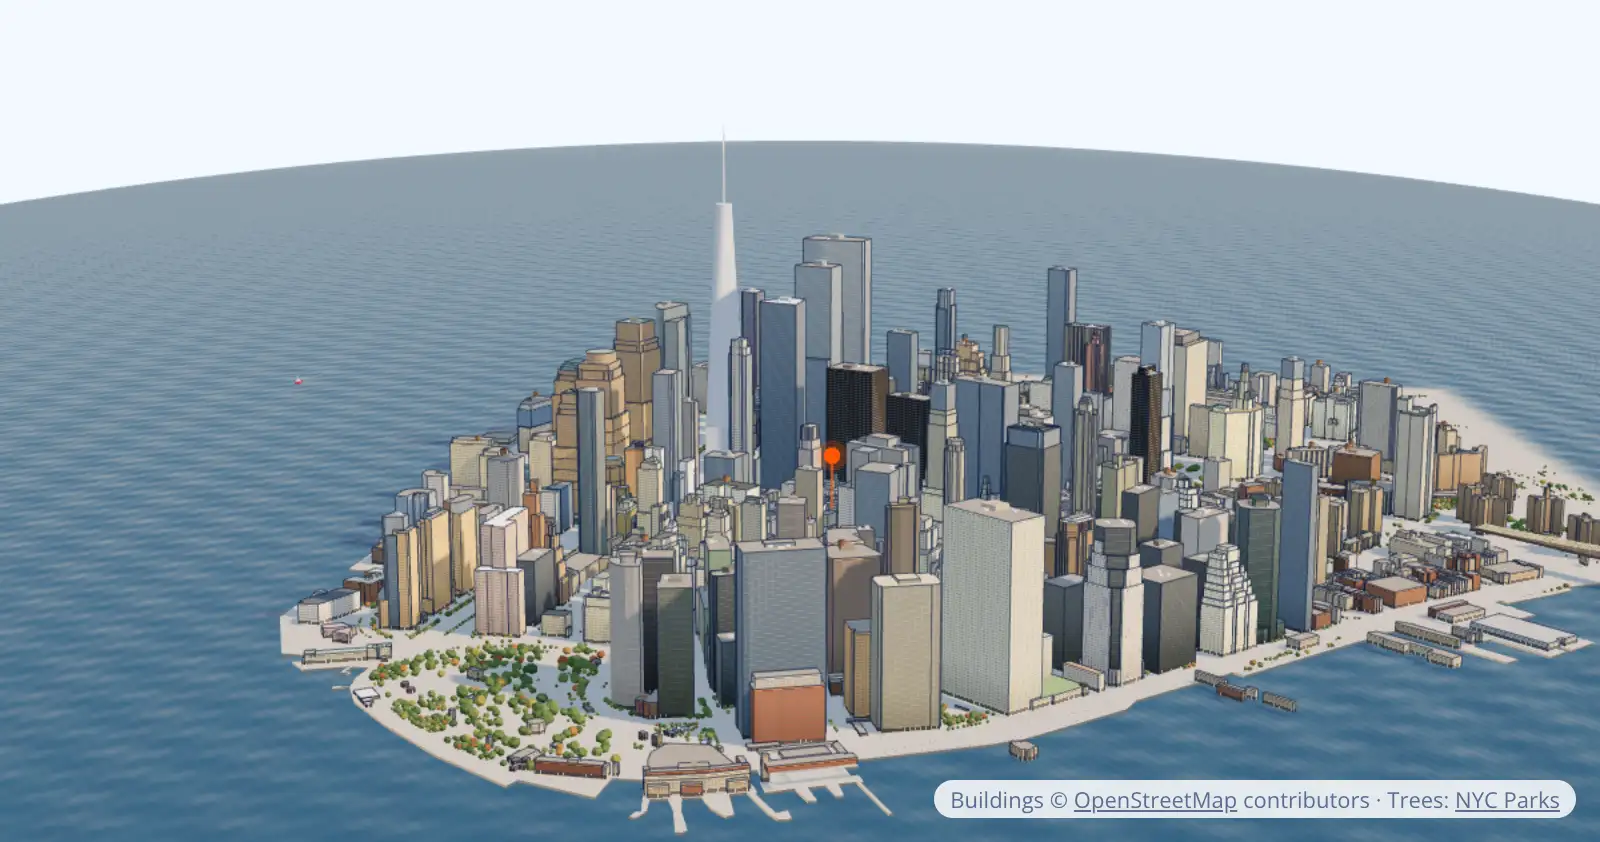
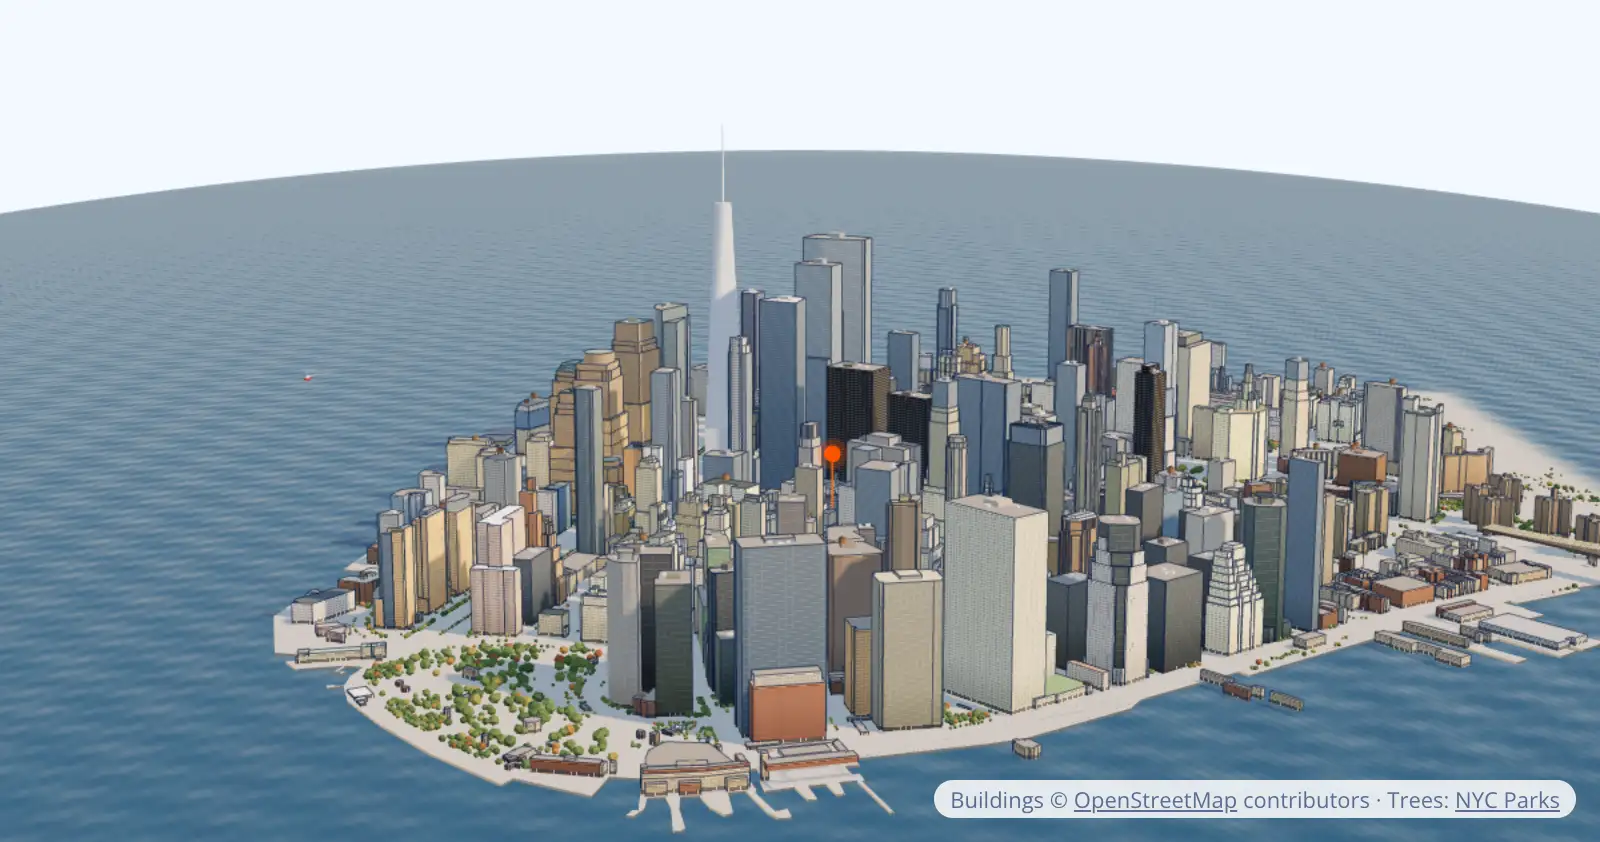
iter-154: v10 calm hero, full reviewed copy, circle removed

diff --git a/src/v/v10.js b/src/v/v10.js
@@ -6,7 +6,7 @@
 import './base.css';
 import './sections.css';
 import './v10.css';
-import { boot, header, footer, C, icon, leadForm, logo, usd, sparkFor, $, $$, reducedMotion, REF_PRICES } from './kit.js';
+import { boot, header, footer, C, icon, leadForm, logo, usd, $, $$, reducedMotion, REF_PRICES } from './kit.js';
 import * as S from './sections.js';
 
 const AMTS = [1, 5, 10, 25, 50, 100, 250, 500];
@@ -24,42 +24,26 @@ const dial = `<div class="dial-card">
 </div>`;
 
 // ---------- v10's own sections: each one idea, big type, a real visual where it earns its place
-const tile = (cls, [t, d], art) => `<li class="tile ${cls} rv"><div class="tile-art" aria-hidden="true">${art}</div><h3>${t}</h3><p>${d}</p></li>`;
 const F = C.features.items;
-const bento = `<section class="sec s-bento" id="product"><div class="vw">
-  <div class="head rv"><h2>${C.features.title}</h2></div>
-  <ul class="bento">
-    ${tile('t-find', F[1], `<span class="search">${icon.search}<span>Apple</span><em>AAPL</em></span>`)}
-    ${tile('t-hold', F[2], `<span class="hold"><small>US holdings</small><b class="num">$1,248.60</b>${sparkFor('GOOGL', 220, 56, { baseline: false })}</span>`)}
-    ${tile('t-fx', F[3], '<b class="big fx"><span>₹</span><i>→</i><span>$</span></b>')}
-  </ul>
-</div></section>`;
-
 const wall = `<section class="sec s-wall" id="brands"><div class="vw">
   <div class="head rv"><h2>${C.brands.title}</h2><p>${C.brands.sub}</p></div>
-  <ul class="wall rv">${C.brands.list.map(([n, t, l]) => `<li title="${n}">${logo(l, t)}<span class="sr-only">${n}</span></li>`).join('')}</ul>
+  <ul class="wall rv">${C.brands.list.map(([n, t, l]) => `<li title="${n}">${logo(l, t)}<small>${t}</small><span class="sr-only">${n}</span></li>`).join('')}</ul>
 </div></section>`;
 
 const why = `<section class="sec s-why10" id="why"><div class="vw">
   <h2 class="rv">${C.why.title}</h2>
-  <ol class="stmts">${C.why.items.map(([t, d], i) => `<li class="rv" style="--i:${i}"><h3>${t}</h3><p>${d}</p></li>`).join('')}</ol>
-</div></section>`;
-
-const steps = `<section class="sec s-steps" id="how"><div class="vw">
-  <div class="head rv"><h2>${C.steps.title}</h2></div>
-  <ol class="steps4">${C.steps.items.map(([t, d], i) => `<li class="rv" style="--i:${i}"><span class="n num">${i + 1}</span><h3>${t}</h3><p>${d}</p></li>`).join('')}</ol>
-  <p class="steps-cta rv"><a class="btn btn-primary" href="#start">${C.steps.cta}</a></p>
+  <ol class="stmts">${C.why.items.map(([t, d], i) => `<li class="rv" style="--i:${i}"><h3>${t}</h3><p>${d}</p><a class="tlink" href="#faq">${C.why.more}${icon.go}</a></li>`).join('')}</ol>
 </div></section>`;
 
 const price = `<section class="sec s-price" id="pricing"><div class="vw">
   <div class="head rv"><h2>${C.charges.title}</h2></div>
-  <ul class="prices">${C.charges.items.map((c, i) => `<li class="rv${c.hot ? ' is-hot' : ''}" style="--i:${i}">${c.tag ? `<p class="p-tag">${c.tag}</p>` : ''}<p class="p-k">${c.label}</p><b class="p-fig num">${c.fig}</b><p class="p-note">${c.note}</p></li>`).join('')}</ul>
+  <ul class="prices">${C.charges.items.map((c, i) => `<li class="rv${c.hot ? ' is-hot' : ''}" style="--i:${i}">${c.tag ? `<p class="p-tag">${c.tag}</p>` : ''}<p class="p-k">${c.label}</p><b class="p-fig num">${c.fig}</b><p class="p-note">${c.note}</p><a class="btn ${c.hot ? 'btn-primary' : 'btn-ghost'} btn-sm" href="#start">${c.cta}</a></li>`).join('')}</ul>
   <p class="fine rv">${C.charges.foot}</p>
 </div></section>`;
 
 const taxes = `<section class="sec s-tax10" id="tax"><div class="vw tax-in">
   <div class="rv"><h2>${C.tax.title}</h2><p class="sub">${C.tax.sub}</p><a class="tlink" href="#tax">${icon.doc}${C.tax.cta}</a></div>
-  <dl class="tax-list">${C.tax.items.map(([t, d], i) => `<div class="rv" style="--i:${i}"><dt>${t}</dt><dd>${d}</dd></div>`).join('')}</dl>
+  <dl class="tax-list">${C.tax.items.map(([t, d], i) => `<div class="rv" style="--i:${i}"><dt>${t}</dt><dd>${d}</dd><dd><a class="tlink" href="#tax-guide">${C.tax.more}${icon.go}</a></dd></div>`).join('')}</dl>
 </div></section>`;
 
 const close = `<section class="sec s-close10" id="start"><div class="vw">
@@ -67,6 +51,8 @@ const close = `<section class="sec s-close10" id="start"><div class="vw">
   <p class="sub rv">${C.closing.sub}</p>
   <ul class="benefits rv">${C.closing.benefits.map((b) => `<li>${icon.check}${b}</li>`).join('')}</ul>
   <div class="close-form rv">${leadForm('lead-2', C.closing.cta, 'close-title')}<p class="fine">${C.closing.fine}</p></div>
+  <a class="tlink expert rv" href="#lead-2">${C.closing.expert}${icon.go}</a>
+  <h3 class="trust-h rv">${C.whyUs.title}</h3>
   <ul class="trust10 rv">${C.whyUs.items.map((t) => `<li>${t}</li>`).join('')}</ul>
 </div></section>`;
 
@@ -77,14 +63,15 @@ const html = `${header()}
     <div class="spark" aria-hidden="true">${[[12, 62, 18], [86, 54, 22], [74, 80, 12], [22, 86, 10], [52, 92, 8]].map(([x, y, z]) => `<i style="left:${x}%;top:${y}%;--z:${z}px"></i>`).join('')}</div>
     <div class="vw hero-copy">
       <p class="eyebrow">${C.hero.eyebrow}</p>
-      <h1><span class="ring">${C.hero.h1}<svg viewBox="0 0 300 110" preserveAspectRatio="none" aria-hidden="true"><path d="M58 18C124 2 238 6 279 30c34 20 4 56-70 66-92 13-188 6-199-27C2 44 40 24 98 14"/></svg></span> <span class="l2">${C.hero.h1b}</span></h1>
+      <h1>${C.hero.h1} <span class="l2">${C.hero.h1b}</span></h1>
       <p class="lead">${C.hero.lead}</p>
       <p class="form-title" id="form-title">${C.hero.formTitle}</p>
       ${leadForm('lead', C.hero.cta, 'form-title')}
+      <ul class="points">${C.hero.points.map((pt) => `<li>${pt}</li>`).join('')}</ul>
       <a class="tlink" href="#how">${C.hero.how}${icon.go}</a>
     </div>
   </div>
-  <ul class="stats" aria-label="Key investment highlights">${C.highlights.map((h, i) => `<li><span class="st-ico" aria-hidden="true">${[icon.globe, icon.chart, icon.wallet, icon.shield][i]}</span><span><b class="num">${h.fig}</b><small>${h.label}</small></span></li>`).join('')}</ul>
+  <ul class="stats" aria-label="Key investment highlights">${C.highlights.map((h) => `<li><b class="num">${h.fig}</b><span>${h.label}</span><small>${h.note}</small></li>`).join('')}</ul>
   <div class="vw stage">
     <div class="side s-left" aria-hidden="true">
       <span class="side-ico ok">${icon.check}</span>
@@ -101,10 +88,11 @@ const html = `${header()}
     </div>
   </div>
 </section>
-${bento}
+${S.product()}
 ${wall}
 ${why}
-${steps}
+${S.how()}
+${S.popular()}
 ${price}
 ${taxes}
 ${S.faq()}
@@ -113,6 +101,7 @@ ${close}
 ${footer()}`;
 
 boot('v10', html);
+S.setupSections();
 
 // ---------- the amount dial
 const el = $('.dial'), track = $('.dial-track'), out = $('#dial-v'), shares = $$('.dial-picks em');

diff --git a/src/v/v10.css b/src/v/v10.css
@@ -54,7 +54,7 @@ h3 { letter-spacing: -0.015em; }
 
 /* ---------- hero: copy and the dial side by side on laptops, stacked and centred on phones */
 /* ---------- hero: a soft gradient panel (white → peach → brand orange) with rounded bottom corners, a faint grid and
-   sparkles on its warm lower part, a hand-drawn ring around "US stocks:", and a white stats pill overlapping the panel's
+   sparkles on its warm lower part, and a white stats pill overlapping the panel's
    edge. All text sits on the light upper part (navy/slate); only the grid, sparkles and the white pill touch the orange. */
 :root .hero { position: relative; padding: 0; text-align: center; background: #fff; }
 .hx-panel { position: relative; isolation: isolate; overflow: hidden; width: calc(100% - 32px); max-width: 1408px; margin: 0 auto; padding: 72px 0 152px; border-radius: 0 0 48px 48px; background: #fff; }
@@ -76,11 +76,6 @@ h3 { letter-spacing: -0.015em; }
 :root .hero .eyebrow { margin-bottom: 20px; }
 :root .hero h1 { font-size: clamp(40px, 5vw, 76px); line-height: 1.04; font-weight: 700; letter-spacing: -0.045em; color: var(--navy); }
 :root .hero h1 .l2 { display: block; font-weight: 600; letter-spacing: -0.04em; color: var(--orange-text); }   /* #bf3f00: AA on white and peach */
-.ring { position: relative; display: inline-block; }
-.ring svg { position: absolute; left: -7%; top: -16%; width: 114%; height: 132%; overflow: visible; pointer-events: none; }
-.ring path { fill: none; stroke: var(--orange); stroke-width: 2.5; stroke-linecap: round; vector-effect: non-scaling-stroke; }
-@media (prefers-reduced-motion: no-preference) { .ring path { stroke-dasharray: 1000; stroke-dashoffset: 1000; animation: draw 1.1s var(--ease) 0.5s forwards; } }
-@keyframes draw { to { stroke-dashoffset: 0; } }
 :root .hero .lead { max-width: 34em; margin: 24px auto 0; font-size: clamp(18px, 1.6vw, 21px); line-height: 1.45; color: var(--slate); }
 :root .hero .form-title { margin: 32px 0 12px; }
 :root .hero .capture { width: min(100%, 540px); margin-inline: auto; border: 1px solid transparent; box-shadow: 0 0 0 1px rgba(7, 45, 94, 0.1), var(--lift); }
@@ -92,12 +87,11 @@ h3 { letter-spacing: -0.015em; }
 /* the stats pill rides the panel's bottom edge */
 .stats { position: relative; z-index: 2; display: grid; grid-template-columns: repeat(4, minmax(0, 1fr)); width: min(1040px, calc(100% - 64px)); margin: -56px auto 0; padding: 12px; border: 1px solid transparent; border-radius: 28px; background: #fff;
   box-shadow: 0 1px 2px rgba(7, 45, 94, 0.06), 0 28px 56px -28px rgba(120, 40, 0, 0.45); text-align: left; }
-.stats li { display: flex; align-items: center; gap: 12px; padding: 12px 16px; }
+.stats li { display: grid; align-content: start; justify-items: center; gap: 2px; padding: 16px 12px; text-align: center; }
 .stats li + li { box-shadow: -1px 0 0 rgba(7, 45, 94, 0.08); }
-.st-ico { display: grid; place-items: center; flex: none; width: 40px; height: 40px; border-radius: 50%; background: #fff1e6; color: var(--orange-text); }
-.st-ico svg { width: 20px; height: 20px; fill: none; stroke: currentColor; stroke-width: 1.8; stroke-linecap: round; stroke-linejoin: round; }
-.stats b { display: block; font-family: var(--display); font-size: 22px; line-height: 1.1; font-weight: 700; letter-spacing: -0.02em; color: var(--navy); }
-.stats small { display: block; font-size: 13px; color: var(--slate); }
+.stats b { font-family: var(--display); font-size: 26px; line-height: 1.1; font-weight: 700; letter-spacing: -0.025em; color: var(--navy); }
+.stats span { font-size: 14px; font-weight: 600; color: var(--ink); }
+.stats small { font-size: 12.5px; line-height: 1.35; color: var(--muted); }
 
 .stage { position: relative; display: grid; grid-template-columns: minmax(0, 1fr) minmax(0, 520px) minmax(0, 1fr); gap: 32px; align-items: center; margin-top: 72px; padding-bottom: 96px; }
 .stage::before { content: ''; position: absolute; left: 50%; top: 42%; width: 900px; max-width: 120%; aspect-ratio: 1.6; translate: -50% -50%; border-radius: 50%; pointer-events: none;
@@ -254,8 +248,8 @@ h3 { letter-spacing: -0.015em; }
   .hx-panel { width: calc(100% - 16px); padding: 48px 0 120px; border-radius: 0 0 32px 32px; }
   :root .hx-panel::after { background: linear-gradient(180deg, #fff 0%, #fff 66%, #fff1e6 76%, #ffc29b 87%, #ff7a33 95%, #ff5400 100%); }   /* phones: the form and note stay on white */
   .stats { grid-template-columns: repeat(2, minmax(0, 1fr)); width: calc(100% - 32px); margin-top: -64px; padding: 8px; border-radius: 24px; }
-  .stats li { padding: 10px 8px; gap: 10px; } .stats li + li { box-shadow: none; }
-  .st-ico { width: 34px; height: 34px; } .stats b { font-size: 18px; } .stats small { font-size: 12px; }
+  .stats li { padding: 12px 8px; gap: 2px; } .stats li + li { box-shadow: none; }
+  .stats b { font-size: 20px; } .stats span { font-size: 13px; }
   .stage { grid-template-columns: minmax(0, 1fr); margin-top: 48px; padding-bottom: 64px; }
   .side { display: none; }   /* phones: the dial alone, right under the form */
   .dial-amt b { font-size: 56px; }
@@ -292,3 +286,18 @@ h3 { letter-spacing: -0.015em; }
   .stage { grid-template-columns: minmax(0, 1fr) minmax(0, 440px) minmax(0, 1fr); gap: 20px; }
   .side { padding: 20px; } .side-v { font-size: 24px; } .side-s { font-size: 13px; }
 }
+
+/* ---------- restored reviewed copy, set in v10's language */
+:root .hero .points { display: flex; flex-wrap: wrap; justify-content: center; gap: 4px 0; max-width: 1120px; margin: 20px auto 0; }   /* wide enough for one line on laptops: no stranded dot */
+:root .hero .points li { font-size: 14px; font-weight: 500; color: var(--ink); }   /* ink: it sits where the peach begins */
+:root .hero .points li + li::before { content: ''; display: inline-block; width: 4px; height: 4px; margin: 0 12px; border-radius: 50%; background: var(--orange); vertical-align: middle; }   /* one quiet line of reassurance under the form */
+.wall li { gap: 8px; align-content: center; }
+.wall small { font-size: 13px; font-weight: 600; letter-spacing: 0.02em; color: var(--slate); }
+.stmts .tlink { margin-top: 16px; }
+.prices li .btn { margin-top: 16px; }
+.tax-list .tlink { margin-top: 4px; font-size: 15px; }
+.s-close10 .expert { margin-top: 24px; color: #fff; font-weight: 700; }
+@media (hover: hover) { .s-close10 .expert:hover { color: #fff; } }
+:root .s-close10 .trust-h { margin-top: 48px; font-size: 20px; font-weight: 700; color: #fff; }
+.s-close10 .trust10 { margin-top: 16px; }
+@media (max-width: 1180px) { :root .hero .points { flex-direction: column; align-items: center; gap: 4px; } :root .hero .points li + li::before { display: none; } }   /* stacked where one line would wrap */
